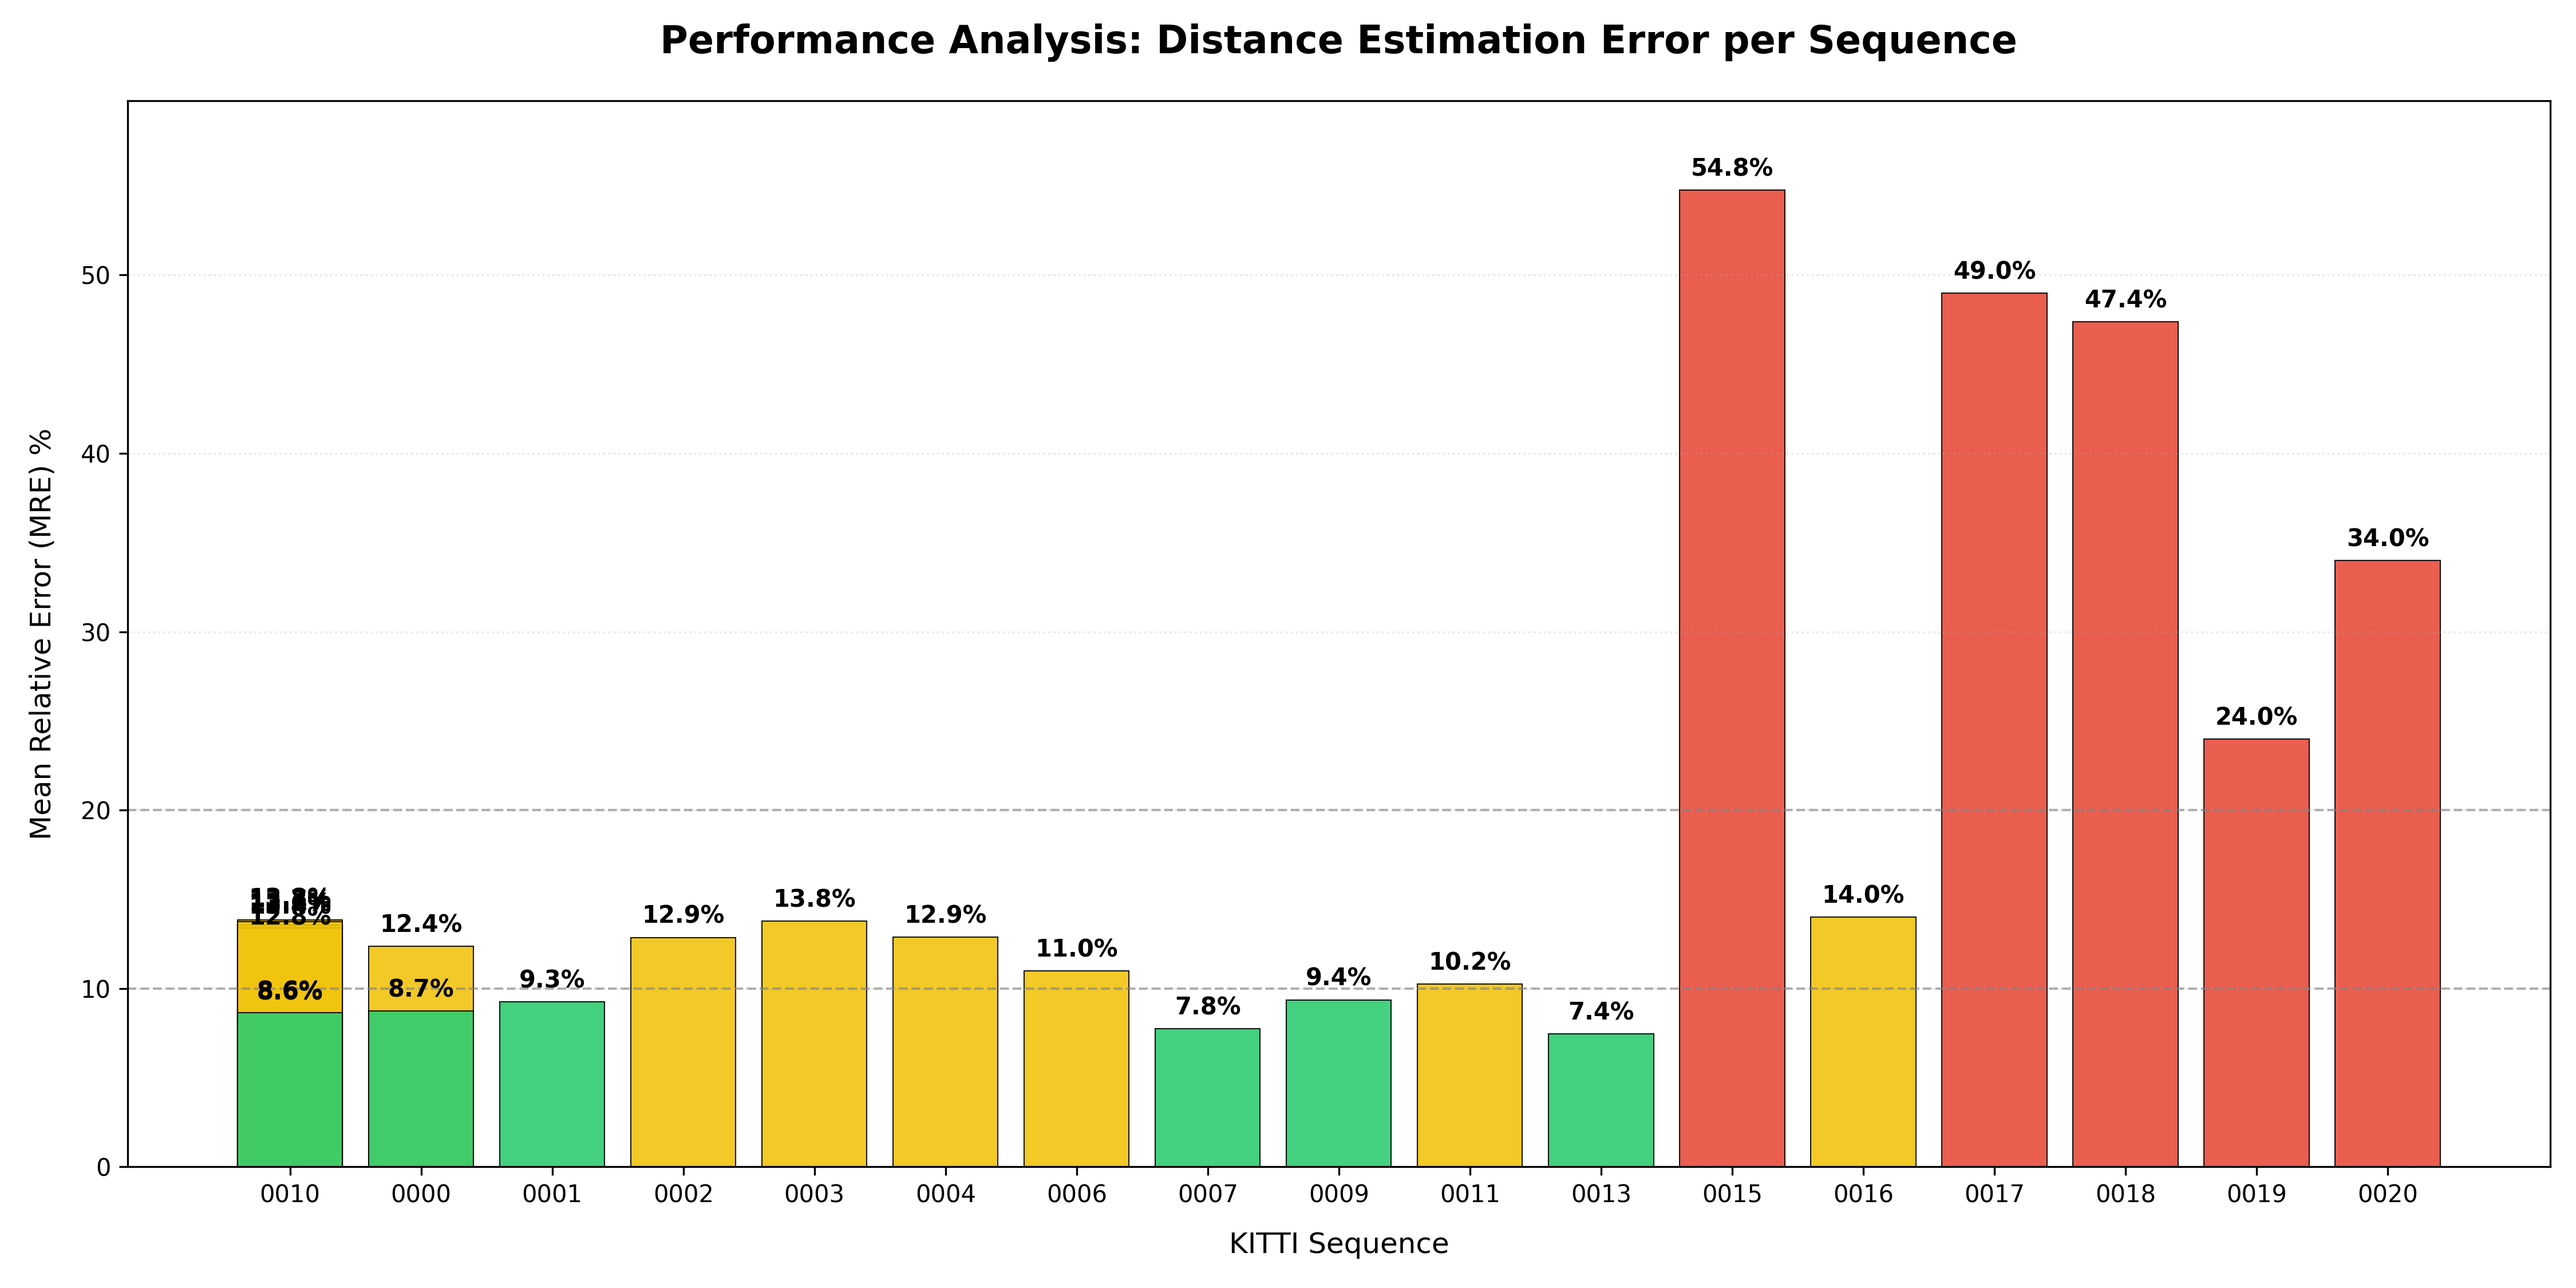
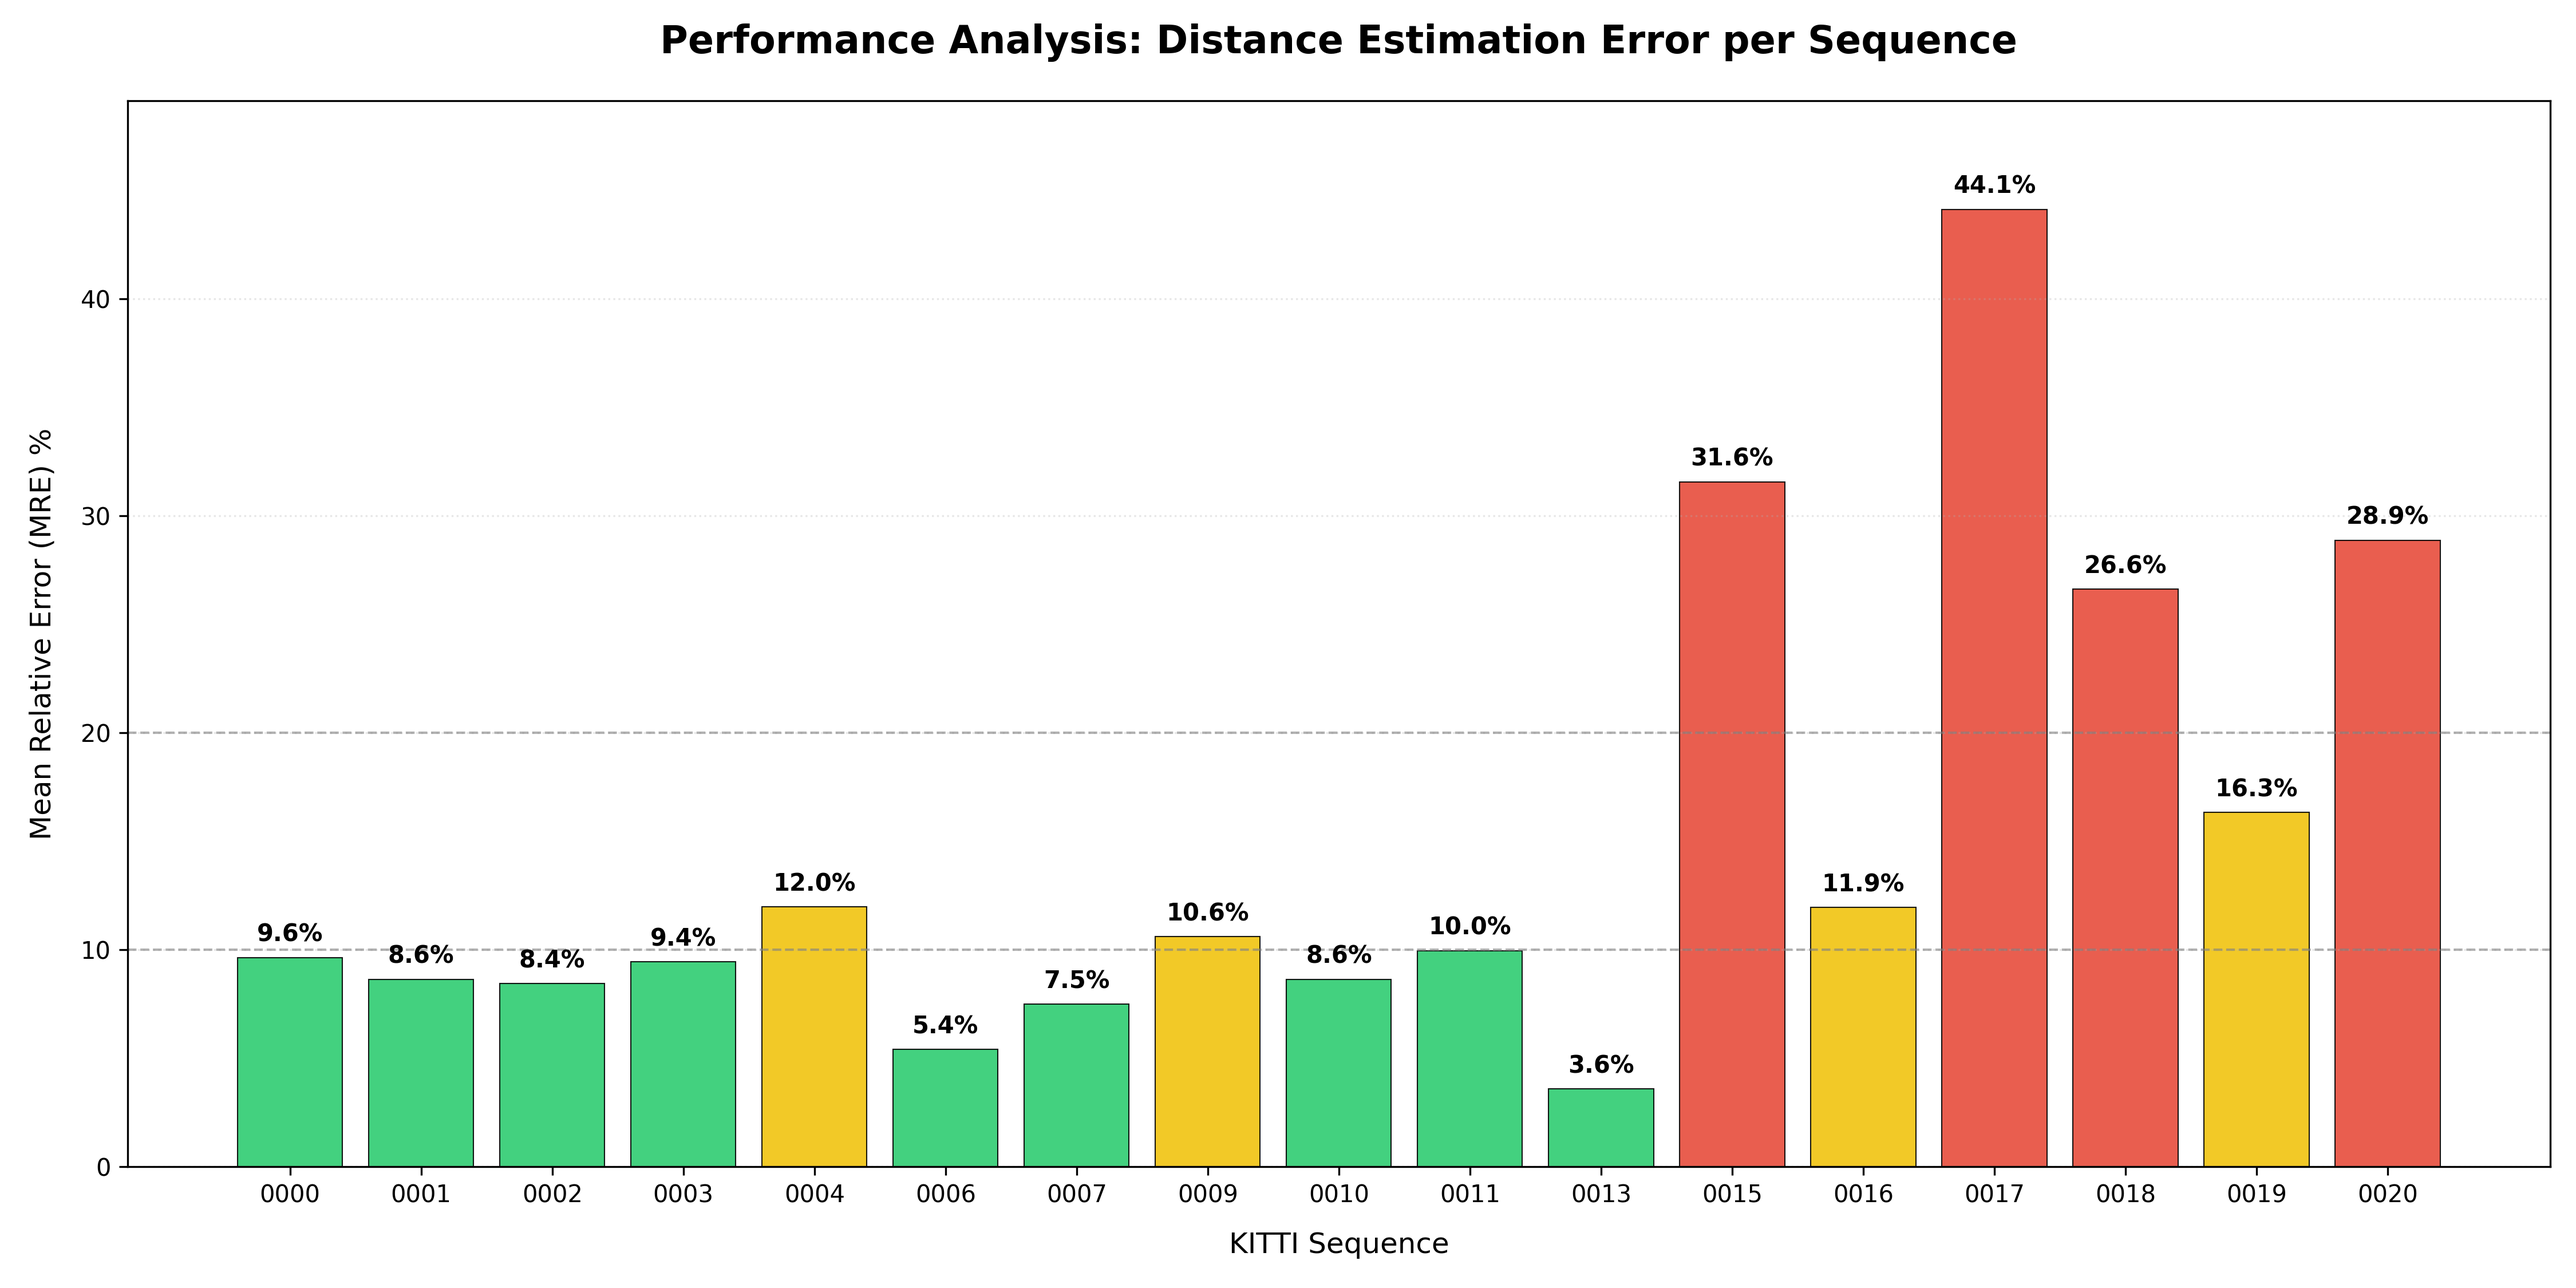
docs: prettiest chart

diff --git a/vebieudo.py b/vebieudo.py
@@ -72,7 +72,7 @@ def draw_comparison_chart(seq):
     plt.savefig(f'plots/comparison_chart_{seq}_4.png')
     plt.show()
 
-draw_mre_chart('final_results_4.csv')
+draw_mre_chart('final_results.csv')
 for i in range(21):
     if i == 5 or i == 8 or i == 12 or i == 14:
         continue
